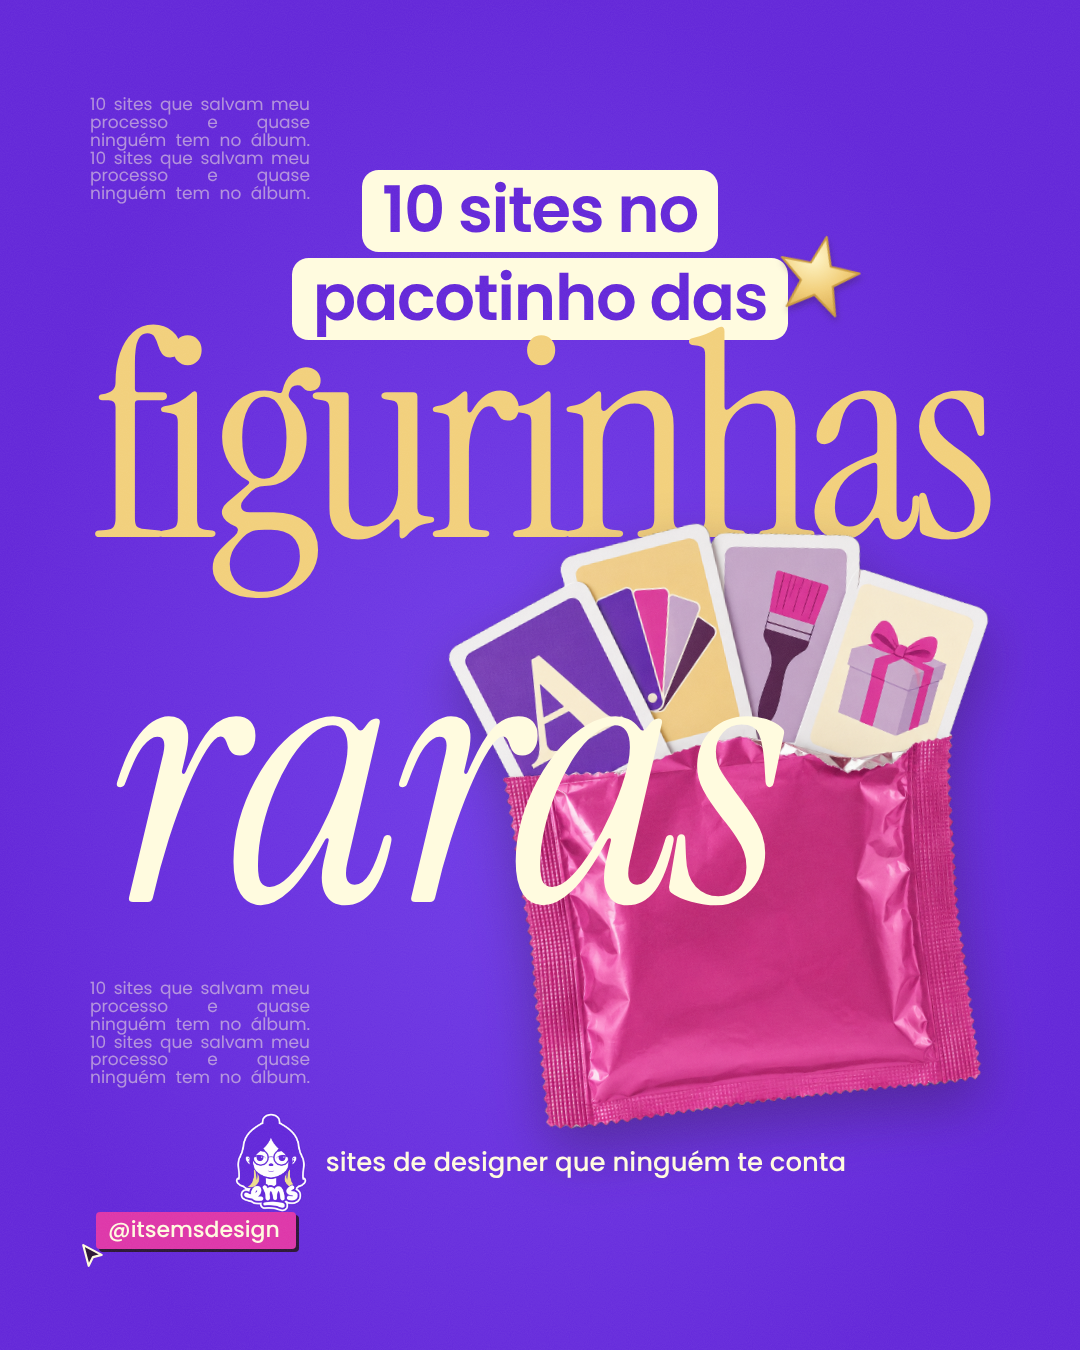
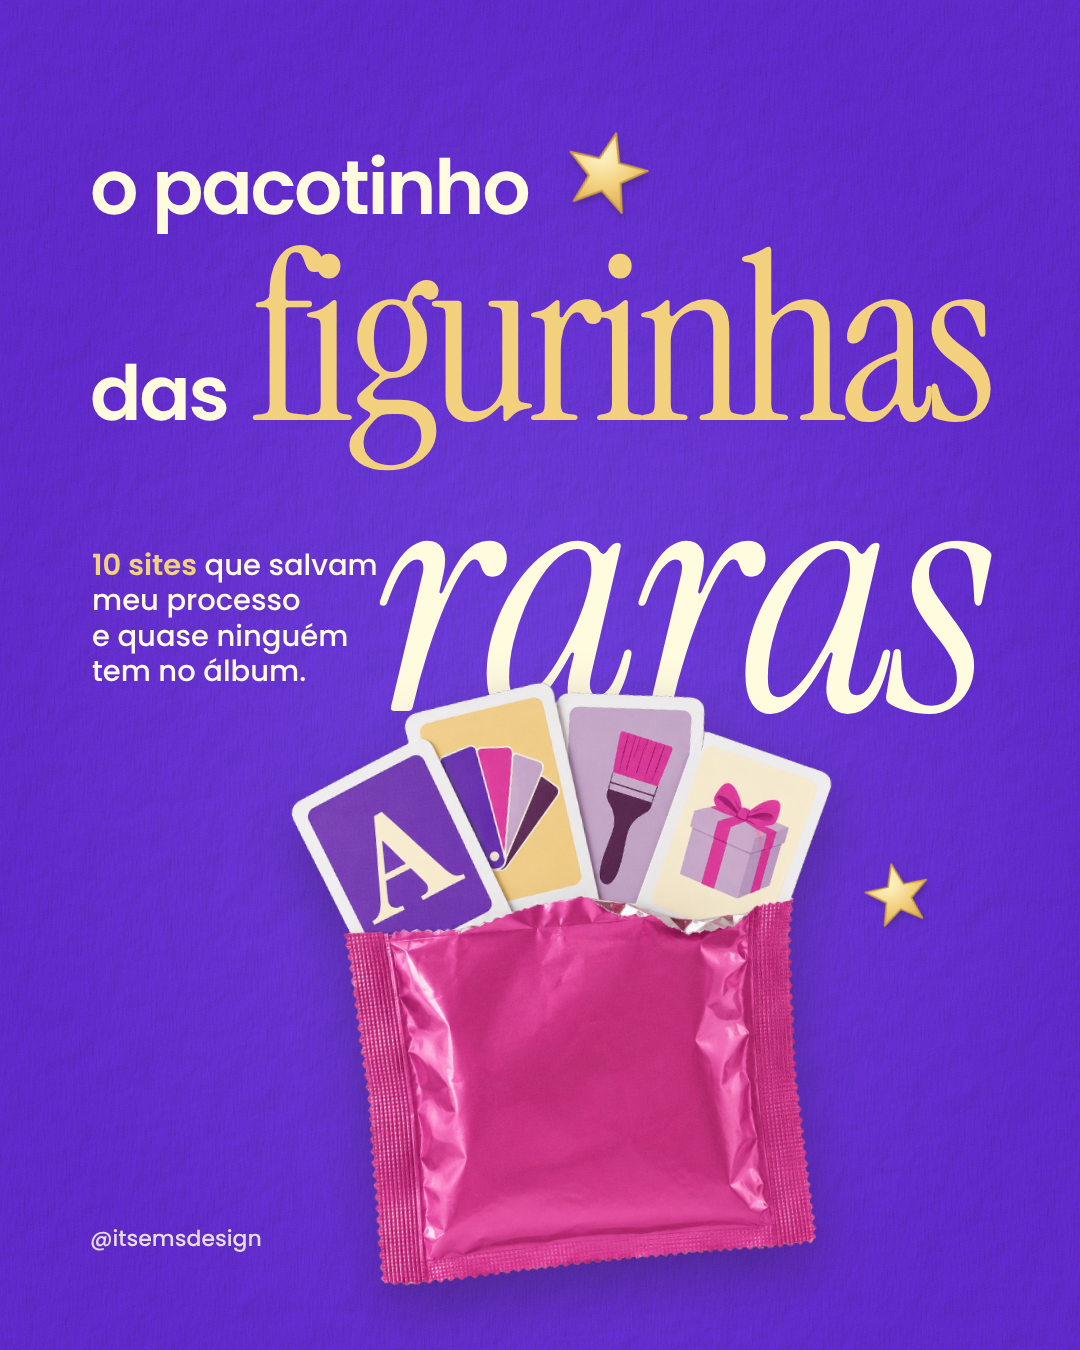
EMS figurinhas raras v4: capa refeita no esquema da ref 2 (palavras encaixadas, pacote na frente)
Claude-Session: https://claude.ai/code/session_01CmCiKB9wFc4qQovptupnZT

diff --git a/Emi/ems-album-figurinhas/projeto/carrossel.html b/Emi/ems-album-figurinhas/projeto/carrossel.html
@@ -65,25 +65,24 @@ function lamina(k, html, fundo, grao = 'grao') {
   camada('graos').insertAdjacentHTML('beforeend', `<div class="lamina" style="left:${k * W}px"><div class="${grao}"></div>${params.has('guia') ? '<div class="guia"></div>' : ''}</div>`);
 }
 
-/* ================= 1 · capa — diagramação da ref 3 (@delfy) ================= */
+/* ================= 1 · capa — diagramação da ref 2 (palavras encaixadas lado a lado, objeto na frente) ================= */
 (() => {
-  const micro = (x, y, w, cor) => `<div class="micro" style="left:${x}px;top:${y}px;width:${w}px;color:${cor}" data-sem-cola>10 sites que salvam meu processo e quase ninguém tem no álbum. 10 sites que salvam meu processo e quase ninguém tem no álbum.</div>`;
   lamina(0, `
-    ${micro(90, 96, 220, 'rgba(255,251,222,.5)')}
-    ${micro(90, 980, 220, 'rgba(255,251,222,.5)')}
-    <div class="abs" style="left:0;right:0;top:170px;display:flex;flex-direction:column;align-items:center;gap:6px">
-      <span class="pilula-ref" style="font-size:64px;background:var(--ivory);color:var(--violeta)">10 sites no</span>
-      <span class="pilula-ref" style="font-size:64px;background:var(--ivory);color:var(--violeta)">pacotinho das</span></div>
-    ${estrela({ x: 772, y: 232, tam: 92, r: 12 })}
-    <div class="g" id="capa-g1" style="left:90px;width:900px;top:330px;text-align:center;font-size:310px;color:var(--manteiga)">figurinhas</div>
-    ${objeto({ x: 470, y: 520, w: 540, r: -7, src: 'pacotinho' })}
-    <div class="g i" style="left:110px;top:640px;font-size:360px;color:var(--ivory)">raras</div>
-    <div class="abs" style="left:0;right:0;top:1112px;text-align:center">
-      <img src="assets/selo-ems.png" style="width:74px;vertical-align:middle;margin-right:14px">
-      <span style="font-family:var(--sans);font-weight:500;font-size:26px;color:var(--ivory);vertical-align:middle">sites de designer que ninguém te conta</span></div>
-    <div class="handle" style="left:96px;top:1212px;--bg:var(--pink)">@itsemsdesign${CURSOR}</div>
+    <div class="abs" style="left:90px;top:150px;font-family:var(--sans);font-weight:600;font-size:76px;line-height:1;letter-spacing:-.03em;color:var(--ivory)">o pacotinho</div>
+    ${estrela({ x: 560, y: 128, tam: 92, r: 14 })}
+    <div class="abs" id="capa-l2" style="left:90px;top:250px;display:flex;align-items:baseline;gap:22px;white-space:nowrap">
+      <span style="font-family:var(--sans);font-weight:600;font-size:76px;letter-spacing:-.03em;color:var(--ivory)">das</span>
+      <span class="g" style="position:static;font-size:282px;color:var(--manteiga)">figurinhas</span></div>
+    <div class="abs" style="left:92px;top:548px;width:300px;font-family:var(--sans);font-weight:500;font-size:29px;line-height:1.22;color:var(--ivory)">
+      <b style="font-weight:600;color:var(--manteiga)">10 sites</b> que salvam meu processo e quase ninguém tem no álbum.</div>
+    <div class="g i" style="right:96px;top:470px;font-size:330px;color:var(--ivory)">raras</div>
+    ${objeto({ x: 310, y: 680, w: 540, r: -6, src: 'pacotinho' })}
+    ${estrela({ x: 862, y: 860, tam: 72, r: -12 })}
+    <div class="abs" style="left:90px;top:1222px;font-family:var(--sans);font-weight:500;font-size:22px;color:rgba(255,251,222,.85)">@itsemsdesign</div>
   `, `<div class="abs" style="inset:0;background:var(--violeta)"></div>
-      <div class="abs" style="inset:0;background:radial-gradient(ellipse at 50% 55%, rgba(123,77,242,.6), transparent 72%)"></div>`, 'grao-luz');
+      <div class="abs" style="inset:0;background:radial-gradient(ellipse at 50% 55%, rgba(123,77,242,.6), transparent 72%)"></div>
+      <div class="abs" style="inset:0;background-image:var(--tx-relevo);background-size:700px;mix-blend-mode:multiply;opacity:.5"></div>
+      <div class="abs" style="inset:0;background-image:var(--tx-fibras);background-size:500px;mix-blend-mode:multiply;opacity:.35"></div>`, 'grao-luz');
 })();
 
 /* ================= 2 · pesquisa — diagramação da ref 8 (agenda) ================= */
@@ -138,7 +137,7 @@ document.fonts.ready.then(() => {
     document.getElementById('brilho-lente').style.background =
       `radial-gradient(circle at ${cx - rl * .35}px ${cy - rl * .4}px, rgba(255,255,255,.5), rgba(255,255,255,0) ${rl * .55}px),
        radial-gradient(circle at ${cx}px ${cy}px, transparent ${rl * .78}px, rgba(91,33,108,.18) ${rl}px)`;
-  } const g1 = document.getElementById('capa-g1'); if (g1) caber(g1, 900);
+  } const l2 = document.getElementById('capa-l2'); if (l2) { let f = 282; while (l2.scrollWidth > 900 && f > 150) { f -= 4; l2.lastElementChild.style.fontSize = f + 'px'; } }
   return Promise.all([...document.images].map((im) => im.complete ? 1 : new Promise((r) => { im.onload = im.onerror = r; })));
 }).then(() => { window.READY = true; });
 </script>
